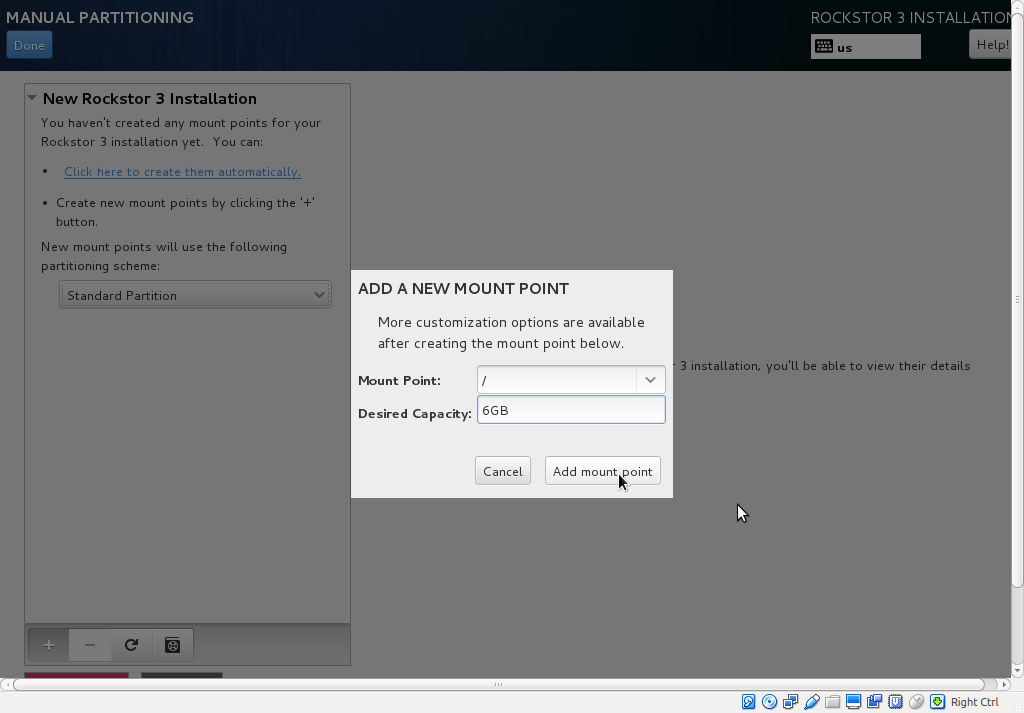
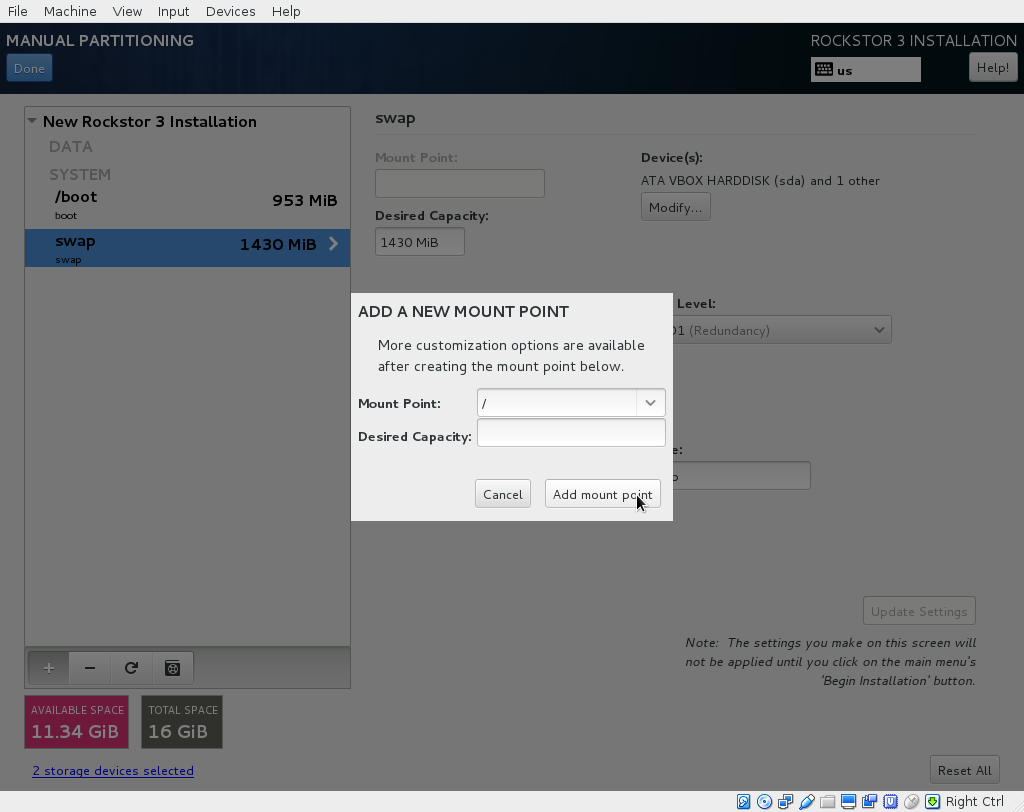
reorder the creation of the base partitions / mdraid devs #131
If we create in the /boot swap / order then we more easily
allocate the remaining space on greater than minimum size
system disks. Ie many raid installs will be on greater than 8GB
system disks so we end up more reliably with all the space in
root rather than swap. Also space calculation for /boot and swap
are a great deal easier and tend not to change with system disk
size.

diff --git a/mdraid-mirror/boot_drive_howto.rst b/mdraid-mirror/boot_drive_howto.rst
@@ -33,10 +33,11 @@ using VirtualBox.
 We will create a mirrored setup for each of **/boot**, **/** and **swap**
 partitions. You should plan the sizing of each partition before proceeding
 further. **/boot** can be as little as 1-2 GB and will store Kernels. **swap**
-can be 2-4 GB or twice the amount of RAM in the system. **/** will store most of
-the OS bits and should be at least 6GB, more the better. For demonstration
-purposes in this howto, our **/** will be **6GB**, our **/boot** will be
-**1GB**, and our **swap** will also be **1GB**.
+can be 1.5-4 GB or equal to the RAM in the system. **/** will store most of
+the OS bits and should be at least 5.5GB, more the better. For demonstration
+purposes in this howto, our **/boot** will be **1 GB**, our **swap** will be
+**1.5 GB**, and our **root** will be all of the remainder ie **5.5 GB**
+
 
 Step 1: Device Selection
 ^^^^^^^^^^^^^^^^^^^^^^^^
@@ -78,8 +79,8 @@ process until all of them are deleted.
    :scale: 85%
    :align: center
 
-Step 3: Setup **/** partition
-^^^^^^^^^^^^^^^^^^^^^^^^^^^^^
+Step 3: Setup **/boot** partition
+^^^^^^^^^^^^^^^^^^^^^^^^^^^^^^^^^
 
 Select **Standard Partitioning** from the drop down menu and click the **+**
 button at the bottom left to create a new partition.
@@ -88,28 +89,9 @@ button at the bottom left to create a new partition.
    :scale: 85%
    :align: center
 
-A popup window will appear titled **ADD A NEW MOUNT POINT**. Select **/** from
-the drop down, enter the size you planned out earlier (minimum 8GB) and click
-*Add mount point* button.
-
-.. image:: root_partition_1.png
-   :scale: 85%
-   :align: center
-
-On the next screen, select **RAID** under **Device Type**, **RAID 1** under
-**RAID Level** (the default) and **ext4** under **File System**. Click
-*Update Settings* button (bottom left) to finalize the **/** partition setup.
-
-.. image:: root_partition_2.png
-   :scale: 85%
-   :align: center
-
-Step 4: Setup **/boot** partition
-^^^^^^^^^^^^^^^^^^^^^^^^^^^^^^^^^
-
-Click on **+** button at the bottom left to add the **/boot** partition. The
-procedure is just like above but pick **/boot** from the drop down, enter the
-appropriate size (1-2GB recommended) and click *Add mount point*
+A popup window will appear titled **ADD A NEW MOUNT POINT**. Select **/boot**
+from the drop down, enter the size you planned out earlier (minimum 1GB) and
+click *Add mount point* button.
 
 .. image:: boot_partition_1.png
    :scale: 85%
@@ -117,41 +99,64 @@ appropriate size (1-2GB recommended) and click *Add mount point*
 
 On the next screen, select **RAID** under **Device Type**, **RAID 1** under
 **RAID Level** (the default) and **ext4** under **File System**. Click
-*Update Settings* button (bottom left) to finalize **/boot** partition setup.
+*Update Settings* button (bottom right) to finalize the **/boot** partition
+setup.
 
 .. image:: boot_partition_2.png
    :scale: 85%
    :align: center
 
-Step 5: Setup **swap** partition
+Step 4: Setup **swap** partition
 ^^^^^^^^^^^^^^^^^^^^^^^^^^^^^^^^
 
-Just like in **/boot** above, click on the **+** button and pick **swap** from
-the drop down. Leave the size field blank and all of the remaining space will be
-used. As we planned the sizes ahead of time, this will come out to be the same
-without having to enter the exact number.
-
-*Alternatively, if installing on larger media than our 8GB demo, one could
-create the /boot and swap partitions first (and specify the size for swap) and
-then use all the remaining space for / where it will likely be more useful.*
+Click on **+** button at the bottom left to add the **swap** partition. The
+procedure is just like above but pick **swap** from the drop down, enter the
+appropriate size (1.5-4GB recommended) and click *Add mount point*.
 
 .. image:: swap_partition_1.png
    :scale: 85%
    :align: center
 
-On the next screen, select **RAID** under **Device Type** and **RAID 1** under
-**RAID Level**. Click the *Update Settings* button to finalize the **swap**
-partition setup. We really don't need redundancy for the swap partition, and it
-also results in a performance overhead, but it does allow for hot swapping /
-replacement of a system raid drive if all partitions are setup that way.
+On the next screen, select **RAID** under **Device Type**, **RAID 1** under
+**RAID Level** (the default) and **swap** under **File System**. Click
+*Update Settings* button (bottom right) to finalize **swap** partition setup.
+
+.. image:: swap_partition_2.png
+   :scale: 85%
+   :align: center
+
+Redundancy on the swap partition may well introduce a performance overhead, but
+it does allow for hot replacement of a system raid drive if all partitions on
+the drive are setup with mdraid giving greater protection from drive faults.
 Otherwise it would be necessary to shut the machine down prior to removing
 or replacing a raid member drive. If live replacement is not a requirement or
 your hardware doesn't support hot swapping then you can keep the default
 **Standard Partitioning** selection. This will result in a single drives swap
 being used until full and then the second drives swap will be used there after.
-Assuming a swap is placed on each drive.
+Assuming a swap partition is placed on each drive. Note that this will not
+protect against drive failure as there will be no redundant mdraid device under
+the swap device.
 
-.. image:: swap_partition_2.png
+Step 5: Setup **/** partition
+^^^^^^^^^^^^^^^^^^^^^^^^^^^^^
+
+Just like in **/boot** above, click on the **+** button and pick **/** from
+the drop down. Leave the size field blank and all of the remaining space will be
+used. As we planned the sizes ahead of time, this will come out to be at least
+the minimum size given our install devices of 8 GB minus the /boot and root
+partitions. If we are using a larger than minimum system drive then any
+remaining space will result in a larger root partition which is where the space
+will be most useful anyway.
+
+.. image:: root_partition_1.png
+   :scale: 85%
+   :align: center
+
+On the next screen, select **RAID** under **Device Type** and **RAID 1** under
+**RAID Level**. Click the *Update Settings* button to finalize the **/**
+partition setup.
+
+.. image:: root_partition_2.png
    :scale: 85%
    :align: center
 
@@ -160,11 +165,18 @@ Step 6: Accept Changes and proceed
 ^^^^^^^^^^^^^^^^^^^^^^^^^^^^^^^^^^
 
 Click **DONE** at the top left of the screen and then click on **Accept
-Changes** to finalize the manual partition scheme.
+Changes** to finalize the manual partition scheme. N.B. due to edits in this
+document the *Destroy Format* entries are not reflective of the removed
+partitions indicated earlier. Depending on your existing partitions if any
+these entries will vary.
 
 .. image:: accept_changes.png
    :scale: 85%
    :align: center
+
+Note also in the above how the installer is about to create new partition
+tables on both devices and the associated partitions and the mdraid device
+counterparts for each of the /boot, swap, and / mount points.
 
 The installer will then display the **INSTALLATION SUMMARY** screen. Click on
 *Begin Installation* button at the bottom right to start the install. In this
@@ -197,7 +209,7 @@ do that simply with the following command ::
 
 The three md* devices correspond to the mirror configuration we setup earlier
 during the install. Note that each partition is mirrored (raid1) where the
-counter parts of the mirror are from different drives (**sda** and **sdb** in
+counterparts of the mirror are from different drives (**sda** and **sdb** in
 our example). We can also verify that **/** and **/boot** are mounted and are
 the right size with the following command ::
 
